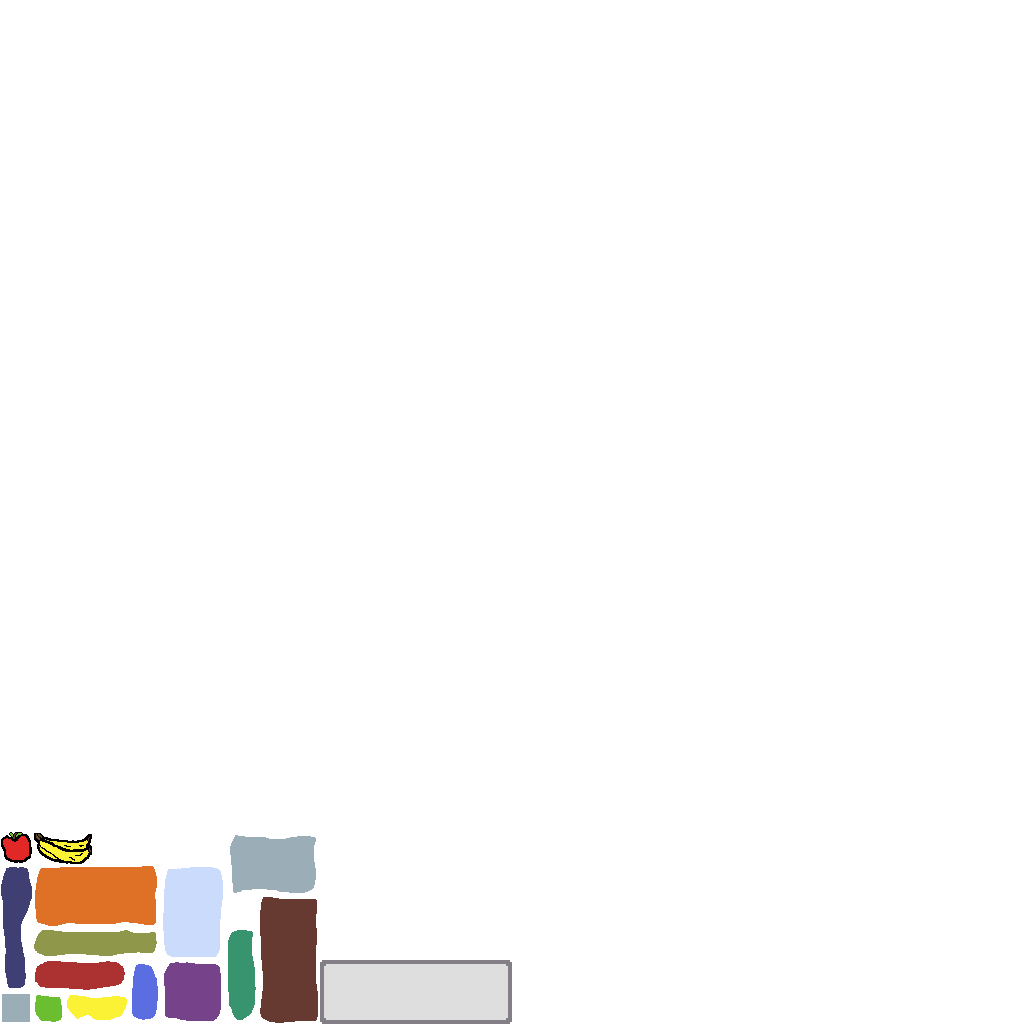
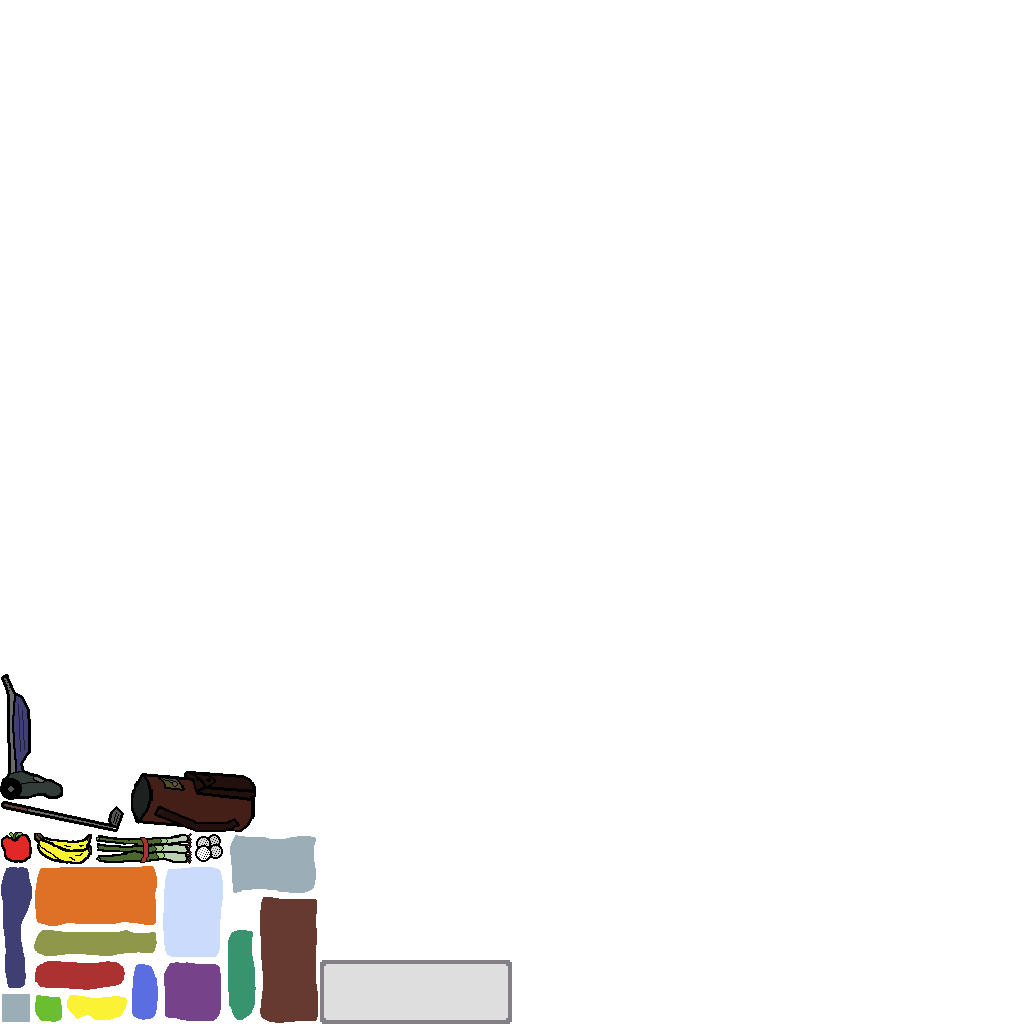
Added Golf Stuff, Vacuum and Irregular Shape

Changed region(s): [[0.0, 0.6562, 0.25, 0.8438]]

diff --git a/internal/data/wares.go b/internal/data/wares.go
@@ -42,73 +42,98 @@ var (
 	Wares = []*Ware{
 		{
 			Name:      constants.Green,
-			ShapeKey:  constants.TinyBox,
+			ShapeKey:  constants.SizeOnebyOne,
 			SpriteKey: constants.Green,
 			Value:     50 + constants.GlobalSeededRandom.Intn(50),
 		}, {
 			Name:      constants.Yellow,
-			ShapeKey:  constants.ShortLogOver,
+			ShapeKey:  constants.SizeTwobyOne,
 			SpriteKey: constants.Yellow,
 			Value:     50 + constants.GlobalSeededRandom.Intn(50),
 		}, {
 			Name:      constants.Blue,
-			ShapeKey:  constants.ShortLogUp,
+			ShapeKey:  constants.SizeOnebyTwo,
 			SpriteKey: constants.Blue,
 			Value:     50 + constants.GlobalSeededRandom.Intn(50),
 		}, {
 			Name:      constants.Purple,
-			ShapeKey:  constants.MediumBox,
+			ShapeKey:  constants.SizeTwobyTwo,
 			SpriteKey: constants.Purple,
 			Value:     50 + constants.GlobalSeededRandom.Intn(50),
 		}, {
 			Name:      constants.Turquoise,
-			ShapeKey:  constants.MediumLogUp,
+			ShapeKey:  constants.SizeOnebyThree,
 			SpriteKey: constants.Turquoise,
 			Value:     50 + constants.GlobalSeededRandom.Intn(50),
 		}, {
 			Name:      constants.Brown,
-			ShapeKey:  constants.LargeUpBox,
+			ShapeKey:  constants.SizeTwobyFour,
 			SpriteKey: constants.Brown,
 			Value:     50 + constants.GlobalSeededRandom.Intn(50),
 		}, {
 			Name:      constants.Indigo,
-			ShapeKey:  constants.LongLogUp,
+			ShapeKey:  constants.SizeOnebyFour,
 			SpriteKey: constants.Indigo,
 			Value:     50 + constants.GlobalSeededRandom.Intn(50),
 		}, {
 			Name:      constants.Red,
-			ShapeKey:  constants.MediumLogOver,
+			ShapeKey:  constants.SizeThreebyOne,
 			SpriteKey: constants.Red,
 			Value:     50 + constants.GlobalSeededRandom.Intn(50),
 		}, {
 			Name:      constants.Gold,
-			ShapeKey:  constants.LongLogOver,
+			ShapeKey:  constants.SizeFourbyOne,
 			SpriteKey: constants.Gold,
 			Value:     50 + constants.GlobalSeededRandom.Intn(50),
 		}, {
 			Name:      constants.White,
-			ShapeKey:  constants.MediumUpBox,
+			ShapeKey:  constants.SizeTwobyThree,
 			SpriteKey: constants.White,
 			Value:     50 + constants.GlobalSeededRandom.Intn(50),
 		}, {
 			Name:      constants.Orange,
-			ShapeKey:  constants.LargeLongBox,
+			ShapeKey:  constants.SizeFourbyTwo,
 			SpriteKey: constants.Orange,
 			Value:     50 + constants.GlobalSeededRandom.Intn(50),
 		}, {
 			Name:      constants.Gray,
-			ShapeKey:  constants.MediumLongBox,
+			ShapeKey:  constants.SizeThreebyTwo,
 			SpriteKey: constants.Gray,
 			Value:     50 + constants.GlobalSeededRandom.Intn(50),
 		}, {
 			Name:      constants.Apple,
-			ShapeKey:  constants.TinyBox,
+			ShapeKey:  constants.SizeOnebyOne,
 			SpriteKey: constants.Apple,
 			Value:     50 + constants.GlobalSeededRandom.Intn(50),
 		}, {
 			Name:      constants.Banana,
-			ShapeKey:  constants.ShortLogOver,
+			ShapeKey:  constants.SizeTwobyOne,
 			SpriteKey: constants.Banana,
+			Value:     50 + constants.GlobalSeededRandom.Intn(50),
+		}, {
+			Name:      constants.Leaks,
+			ShapeKey:  constants.SizeThreebyOne,
+			SpriteKey: constants.Leaks,
+			Value:     50 + constants.GlobalSeededRandom.Intn(50),
+		}, {
+			Name:      constants.GolfBalls,
+			ShapeKey:  constants.SizeOnebyOne,
+			SpriteKey: constants.GolfBalls,
+			Value:     50 + constants.GlobalSeededRandom.Intn(50),
+		}, {
+			Name:      constants.GolfClub,
+			ShapeKey:  constants.SizeFourbyOne,
+			SpriteKey: constants.GolfClub,
+			Value:     50 + constants.GlobalSeededRandom.Intn(50),
+		}, {
+			Name:      constants.GolfBag,
+			ShapeKey:  constants.SizeFourbyTwo,
+			SpriteKey: constants.GolfBag,
+			Value:     50 + constants.GlobalSeededRandom.Intn(50),
+		}, {
+			Name:      constants.Vacuum,
+			ShapeKey:  constants.SizeTwobyFourL,
+			SpriteKey: constants.Vacuum,
 			Value:     50 + constants.GlobalSeededRandom.Intn(50),
 		},
 	}

diff --git a/internal/constants/trunkominos.go b/internal/constants/trunkominos.go
@@ -5,18 +5,19 @@ import "ludum-dare-54/pkg/world"
 var (
 	//Trunkominos
 	TrunkominoTypes = map[TrunkominoType][]world.Coords{
-		TinyBox:       {{0, 0}},
-		ShortLogOver:  {{0, 0}, {1, 0}},
-		ShortLogUp:    {{0, 0}, {0, 1}},
-		MediumLogOver: {{0, 0}, {1, 0}, {2, 0}},
-		MediumLogUp:   {{0, 0}, {0, 1}, {0, 2}},
-		LongLogOver:   {{0, 0}, {1, 0}, {2, 0}, {3, 0}},
-		LongLogUp:     {{0, 0}, {0, 1}, {0, 2}, {0, 3}},
-		MediumBox:     {{0, 0}, {1, 0}, {0, 1}, {1, 1}},
-		MediumLongBox: {{0, 0}, {1, 0}, {0, 1}, {1, 1}, {2, 0}, {2, 1}},
-		LargeLongBox:  {{0, 0}, {1, 0}, {0, 1}, {1, 1}, {2, 0}, {2, 1}, {3, 0}, {3, 1}},
-		MediumUpBox:   {{0, 0}, {1, 0}, {0, 1}, {1, 1}, {0, 2}, {1, 2}},
-		LargeUpBox:    {{0, 0}, {1, 0}, {0, 1}, {1, 1}, {0, 2}, {1, 2}, {0, 3}, {1, 3}},
+		SizeOnebyOne:   {{0, 0}},
+		SizeTwobyOne:   {{0, 0}, {1, 0}},
+		SizeOnebyTwo:   {{0, 0}, {0, 1}},
+		SizeThreebyOne: {{0, 0}, {1, 0}, {2, 0}},
+		SizeOnebyThree: {{0, 0}, {0, 1}, {0, 2}},
+		SizeFourbyOne:  {{0, 0}, {1, 0}, {2, 0}, {3, 0}},
+		SizeOnebyFour:  {{0, 0}, {0, 1}, {0, 2}, {0, 3}},
+		SizeTwobyTwo:   {{0, 0}, {1, 0}, {0, 1}, {1, 1}},
+		SizeThreebyTwo: {{0, 0}, {1, 0}, {0, 1}, {1, 1}, {2, 0}, {2, 1}},
+		SizeFourbyTwo:  {{0, 0}, {1, 0}, {0, 1}, {1, 1}, {2, 0}, {2, 1}, {3, 0}, {3, 1}},
+		SizeTwobyThree: {{0, 0}, {1, 0}, {0, 1}, {1, 1}, {0, 2}, {1, 2}},
+		SizeTwobyFour:  {{0, 0}, {1, 0}, {0, 1}, {1, 1}, {0, 2}, {1, 2}, {0, 3}, {1, 3}},
+		SizeTwobyFourL: {{0, 0}, {1, 0}, {0, 1}, {0, 2}, {0, 3}},
 	}
 )
 
@@ -24,18 +25,19 @@ type TrunkominoType string
 
 const (
 	UndefinedTrunkominoType = "Undefined"
-	TinyBox                 = "Size32"
-	ShortLogOver            = "ShortLogOver"
-	ShortLogUp              = "ShortLogUp"
-	MediumLogOver           = "MediumLogOver"
-	MediumLogUp             = "MediumLogUp"
-	LongLogOver             = "LongLogOver"
-	LongLogUp               = "LongLogUp"
-	MediumBox               = "MediumBox"
-	MediumLongBox           = "MediumLongBox"
-	LargeLongBox            = "LargeLongBox"
-	MediumUpBox             = "MediumUpBox"
-	LargeUpBox              = "LargeUpBox"
+	SizeOnebyOne            = "SizeOnebyOne"
+	SizeTwobyOne            = "SizeTwobyOne"
+	SizeOnebyTwo            = "SizeOnebyTwo"
+	SizeThreebyOne          = "SizeThreebyOne"
+	SizeOnebyThree          = "SizeOnebyThree"
+	SizeFourbyOne           = "SizeFourbyOne"
+	SizeOnebyFour           = "SizeOnebyFour"
+	SizeTwobyTwo            = "SizeTwobyTwo"
+	SizeThreebyTwo          = "SizeThreebyTwo"
+	SizeFourbyTwo           = "SizeFourbyTwo"
+	SizeTwobyThree          = "SizeTwobyThree"
+	SizeTwobyFour           = "SizeTwobyFour"
+	SizeTwobyFourL          = "SizeTwobyFourL"
 )
 
 // GetMovedCoords assumes the center of even numbers is moved to the left and

diff --git a/internal/constants/sprites.go b/internal/constants/sprites.go
@@ -18,4 +18,9 @@ const (
 	Gray            = "gray"
 	Apple           = "apple"
 	Banana          = "banana"
+	Leaks           = "leaks"
+	GolfBalls       = "golf balls"
+	GolfClub        = "golf club"
+	GolfBag         = "golf bag"
+	Vacuum          = "vacuum"
 )
